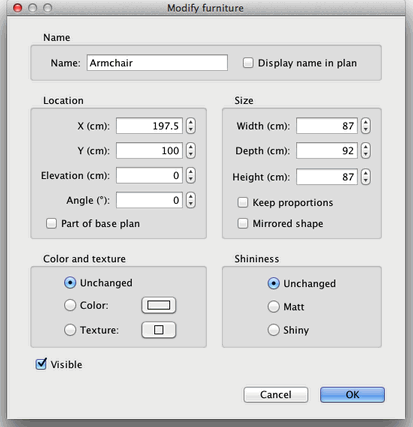
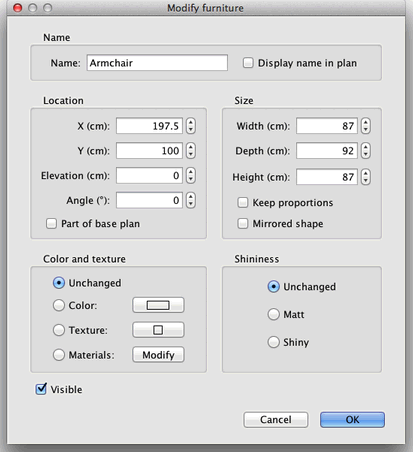
Updated help for version 4.0
git-svn-id: https://svn.code.sf.net/p/sweethome3d/code/trunk@3953 03e323e1-6c6c-46a5-9f71-c4ce5d8c6204

diff --git a/SweetHome3D/src/com/eteks/sweethome3d/viewcontroller/resources/help/fr/editingPreferences.html b/SweetHome3D/src/com/eteks/sweethome3d/viewcontroller/resources/help/fr/editingPreferences.html
@@ -29,18 +29,22 @@
 	<td><p>Pour &eacute;diter les pr&eacute;f&eacute;rences de Sweet Home 3D, choisissez <i>Sweet Home 3D &gt; Pr&eacute;f&eacute;rences...</i> sous
 	    Mac OS X ou <i>Fichier &gt; Pr&eacute;f&eacute;rences...</i> sous les autres syst&egrave;mes d'exploitation.</p>
 	    <p align="center"><img src="images/editingPreferences.png"></p>
-	  <p>Dans le panneau des pr&eacute;f&eacute;rences, vous pouvez choisir la <i>Langue</i> utilis&eacute;e dans l'interface utilisateur
-	    de Sweet Home 3D et l'<i>Unit&eacute;</i> utilis&eacute;e
+	  <p>Dans le panneau des pr&eacute;f&eacute;rences,  la liste d&eacute;roulante <i>Langue</i> vous permet de choisir la langue utilis&eacute;e dans l'interface utilisateur
+	    de Sweet Home 3D et le bouton &agrave; sa droite d'importer des fichiers de langues avec une extensions SH3L.<br>
+	    La liste d&eacute;roulante <i>Unit&eacute;</i> vous permet de choisir l'unit&eacute; utilis&eacute;e
 	    pour dessiner les r&egrave;gles et la grille du plan du
-	    logement, et pour afficher les longueurs. <br>
-	    Le bouton &agrave; c&ocirc;t&eacute; de la liste d&eacute;roulante <i>Langue</i> vous permet aussi d'importer des fichiers de langues avec une extensions SH3L. </p>
+	    logement, ainsi que pour afficher les longueurs et les aires.	Pour le syst&egrave;me m&eacute;trique, vous pouvez choisir le <i>Millim&egrave;tre</i>, le <i>Centim&egrave;tre</i> ou le  <i>M&egrave;tre</i>, et le syst&egrave;me imp&eacute;rial propose les deux unit&eacute;s suivantes&nbsp;: l'unit&eacute; <i>Pied/Pouce/Fraction</i> 
+	    qui affiche une longueur en pieds et pouces suivie de la fraction d'un huiti&egrave;me de pouce la plus proche, comme dans 
+	    <b>20'10&#8539;&quot;</b>, et l'unit&eacute; <i>Pouce/D&eacute;cimales</i> qui affiche une longueur seulement en pouces suivie des d&eacute;cimales de pouce, comme dans <b>250.122&quot;</b>. Pour les aires, l'unit&eacute; <i>Pied/Pouce/Fraction</i> affiche toujours la valeur la plus proche en pieds carr&eacute;, tandis que l'unit&eacute; <i>Pouce/D&eacute;cimales</i> affiche des d&eacute;cimales 
+	    si besoin.</p>
 	    <p> Les boutons radio <i>Dossiers de cat&eacute;gorie </i>et <i>Liste 
           avec recherche </i>permettent de choisir le mode d'affichage du catalogue 
-          de meubles dans chaque <a href="ui.html">fen&ecirc;tre Sweet Home 3D</a>.<br>
-          La bo&icirc;te &agrave; cocher <i>Fl&egrave;ches de navigation 3D</i> 
-          permet d'afficher ou non les boutons en forme de fl&egrave;ches d'aide 
-          &agrave; la <a href="editing3DView.html">navigation dans la vue 3D</a>.</p>
-        <p> La bo&icirc;te &agrave; cocher <i>Magn&eacute;tisme</i> active ou 
+          de meubles dans chaque <a href="ui.html">fen&ecirc;tre Sweet Home 3D</a>.        </p>
+	    <p>	      La bo&icirc;te &agrave; cocher <i>Fl&egrave;ches de navigation 3D</i> permet d'afficher ou non les boutons en forme de fl&egrave;ches d'aide 
+          &agrave; la <a href="editing3DView.html">navigation dans la vue 3D</a>.<br>
+          Quand elle est activ&eacute;e, l'option <i>Vue a&eacute;rienne centr&eacute;e sur la s&eacute;lection</i> centrera la vue a&eacute;rienne 3D sur les &eacute;l&eacute;ments s&eacute;lectionn&eacute;s dans le plan 2D. Si aucun &eacute;l&eacute;ment n'est s&eacute;lectionn&eacute; ou si cette option est d&eacute;sactiv&eacute;e, 
+          la vue a&eacute;rienne sera centr&eacute;e sur le mileu du logement, qui peut changer en fonction de son contenu.</p>
+	    <p>La bo&icirc;te &agrave; cocher <i>Magn&eacute;tisme</i> active ou 
           d&eacute;sactive le magn&eacute;tisme utilis&eacute; dans le plan du 
           logement au cours du positionnement des meubles, et du dessin des murs, des pi&egrave;ces et des cotes.<br>
           La bo&icirc;te &agrave; cocher <i>R&egrave;gles</i> permet de rendre 
@@ -56,11 +60,14 @@
           remplies dans le plan avec la couleur ou de la texture que vous avez 
           choisies pour leur plancher, ou en gris (en blanc &agrave; l'impression).<br>
           La liste d&eacute;roulante <i>Motif des murs dans le plan</i> permet 
-          de choisir le motif de remplissage des murs dans le plan.</p>
-	  <p>La valeur de l'<i>Epaisseur des nouveaux murs</i> d&eacute;termine l'&eacute;paisseur des murs qui seront cr&eacute;&eacute;s
+          de choisir le motif de remplissage des murs dans le plan.<br>
+          La valeur de l'<i>Epaisseur des nouveaux murs</i> d&eacute;termine l'&eacute;paisseur des murs qui seront cr&eacute;&eacute;s
 	        une fois que le panneau des pr&eacute;f&eacute;rences sera ferm&eacute;.<br>
           La valeur de la <i>Hauteur des nouveaux murs</i> d&eacute;termine la hauteur des futurs murs.<br>
-	        La valeur de l'<i>Epaisseur des nouveaux planchers</i> d&eacute;termine l'&eacute;paisseur des planchers des futurs niveaux.	  </p>
+          La valeur de l'<i>Epaisseur des nouveaux planchers</i> d&eacute;termine l'&eacute;paisseur des planchers des futurs niveaux.</p>
+<p>Si elle est s&eacute;lectionn&eacute;e, l'option <i>V&eacute;rifier les mises &agrave; jour au lancement du programme</i> v&eacute;rifiera si des mises &agrave; jours de Sweet Home 3D sont disponibles ou non &agrave; chaque fois que le programme est  lanc&eacute;, 
+  et affichera des informations sur celles-ci dans une bo&icirc;te de dialogue. Cette option v&eacute;rifie aussi la disponibilit&eacute; de mises &agrave; jours pour les biblioth&egrave;ques de meubles (fichiers SH3F), les biblioth&egrave;ques de textures (fichiers SH3T), les fichiers de langues (fichiers SH3L) et les plug-ins 
+  (fichiers SH3P) que vous avez install&eacute;s, en fonction de leur configuration. </p>	  
 	  <p>La valeur du champ associ&eacute; &agrave; la bo&icirc;te &agrave; 
           cocher <i>Enregistrer les donn&eacute;es de r&eacute;cup&eacute;ration</i> 
           d&eacute;termine le d&eacute;lai en minutes qui s'&eacute;coule entre 
@@ -82,7 +89,7 @@
           <td><img src="../images/coloredRendering.png" width="332" height="296"></td>
         </tr>
         <tr>
-          <td align="center" valign="top">Rendu du plan par d&eacute;faut avec les ic&ocirc;nes du catalogue,<br>
+          <td align="center" valign="top">Rendu du plan avec les ic&ocirc;nes du catalogue,<br>
       les planchers monochromes et les murs hachur&eacute;s</td>
           <td align="center" valign="top">Rendu du plan avec les meubles vus de dessus,<br>
       les planchers color&eacute;s, et les murs en noir</td>
@@ -140,6 +147,12 @@
               <td><p>Une fois qu'un mur est cr&eacute;&eacute;, vous pouvez <a href="editingWalls.html">changer</a> 
                   son &eacute;paisseur et sa hauteur, quelque soit les valeurs 
                   choisies dans le panneau des pr&eacute;f&eacute;rences.</p></td>
+            </tr>
+            <tr valign="top"> 
+              <td width="16"><p>&#149;</p></td>
+              <td><p>Les  informations sur les mises &agrave; jour ne peuvent &ecirc;tre obtenues que si votre ordinateur a acc&egrave;s &agrave; Internet. 
+              En cas de doute, cliquez sur le bouton <i>V&eacute;rifier maintenant</i> pour afficher les mises &agrave; jour disponibles, 
+              ou un message sp&eacute;cifiant qu'aucune mise &agrave; jour n'est disponible, ou un message d'erreur stipulant que les mises &agrave; jour n'ont pu &ecirc;tre lues.</p></td>
             </tr>
           </table></td>
 	</tr>

diff --git a/SweetHome3D/src/com/eteks/sweethome3d/viewcontroller/resources/help/en/editingPreferences.html b/SweetHome3D/src/com/eteks/sweethome3d/viewcontroller/resources/help/en/editingPreferences.html
@@ -29,15 +29,25 @@
 	<td><p>To edit Sweet Home 3D preferences, choose <i>Sweet Home 3D &gt; Preferences...</i> under Mac OS X or <i>File &gt; Preferences...</i> under
 	    other systems.</p>
 	    <p align="center"><img src="images/editingPreferences.png"></p>
-	  <p>In the preferences pane, you can choose the <i>Language</i> used in Sweet Home 3D user interface and the <i>Unit</i> used
-	    to draw  the rulers and grid of the home plan, and to display lengths and areas.<br>
-	    The button beside the <i>Language</i> drop down list lets you also import some additional languages library files with a SH3L extension. </p>
-	    <p> The <i>Category folders</i> and the <i>Searchable list</i> radio buttons 
+	  <p>In the preferences pane, the <i>Language</i> drop down list lets you choose the language used in the user interface of Sweet Home 3D,  
+	  	and the button at its right lets you import some additional languages library files with a SH3L extension. <br>
+	    The <i>Unit</i> drop down list lets you choose the unit used to draw  the rulers and grid of the home plan, 
+	    and to display lengths and areas. <i>Millimeter</i>, <i>Centimeter</i> and <i>Meter</i> units are available 
+	    for the metric system, and two units are proposed for  the imperial system&nbsp;: the <i>Foot/Inch/Fraction</i> 
+	    unit which displays a length in feet and inches followed by the closest eighth inch fraction, like in 
+	    <b>20'10&#8539;&quot;</b>, and the <i>Inch/Decimals</i> unit  which displays lengths only in inches followed 
+	    by decimals of an inch, like in <b>250.122&quot;</b>. For areas, the <i>Foot/Inch/Fraction</i>  always 
+	    displays the closest value in square feet, whereas the <i>Inch/Decimals</i> unit displays some decimals 
+	    when necessary.</p>
+	  <p> The <i>Category folders</i> and the <i>Searchable list</i> radio buttons 
           let you choose how the furniture catalog should be displayed in each 
-          <a href="ui.html">Sweet Home 3D window</a>.<br>
-          The <i>3D navigation arrows</i> check box allows to display arrow buttons 
+        <a href="ui.html">Sweet Home 3D window</a>.</p>
+	  <p>The <i>3D navigation arrows</i> check box allows to display arrow buttons 
           that will help you to <a href="editing3DView.html">navigate in the 3D 
-        view</a>.</p>
+        view</a>.<br>
+        When enabled, the  <i>Aerial view centered on selection</i> option will center the 3D aerial view 
+        on the selected items in the 2D plan. If no item is selected or if this option is disabled, 
+        the aerial view will be centered on the center of the home, that may vary according to the items it contains. </p>
         <p> The <i>Magnetism</i> check box enables or disables the magnetism used 
           in the home plan during <a href="drawingWalls.html">walls drawing</a> 
           and <a href="editingFurniture.html">furniture placing</a>.<br>
@@ -51,13 +61,18 @@
           let you choose whether rooms should be drawn in plan filled with the 
           color or texture you chose for their floor, or with a grey color (printed 
           as white).<br>
-          The <i>Wall pattern in plan</i> combo box lets you choose the pattern 
-          used to fill walls in plan.</p>
-        <p>	      The <i>New walls thickness</i> value sets the thickness of all the walls that will be created once the preferences
+          The <i>New walls pattern in plan</i> drop down list lets you choose the pattern 
+        in the plan used to fill the walls  that will be created once the preferences
 	        pane will be closed.<br>
+          The <i>New walls thickness</i> value sets the thickness of the new walls.<br>
           The <i>New  walls height</i> value 
 	        sets the height of the new walls and of the new levels. <br>
-        The <i>New floors thickness</i> sets the thickness of the floors of new levels. </p>	  
+        The <i>New levels floor thickness</i> sets the thickness of the floors of new levels. </p>
+        <p>When selected, the  <i>Check updates at program launch</i> option will check whether 
+        some updates of Sweet Home 3D are available or not each time the program is launched, 
+        and will display them in a dialog box. This option checks also the availability of some updates for the furniture libraries 
+        (SH3F files),  textures libraries (SH3T files),  language libraries (SH3L files) and plug-ins 
+        (SH3P files) that you installed, depending on how they are configured. </p>	  
         <p>The value of the field associated to the <i>Save home data for recovery</i> 
           check box sets the delay in minutes between two save operations of the 
           opened homes. These homes are automatically saved in private files, 
@@ -75,7 +90,7 @@
           <td><img src="../images/coloredRendering.png" width="332" height="296"></td>
         </tr>
         <tr>
-          <td align="center" valign="top">Default plan rendering with catalog icons,<br>
+          <td align="center" valign="top">Plan rendering with catalog icons,<br>
             monochrome floors and walls filled with a hatch pattern</td>
           <td align="center" valign="top">Plan rendering with top view furniture icons,<br>
             floor colors, and walls filled with black color</td>
@@ -121,11 +136,17 @@
               <td><p>Magnetism set in preferences pane can be temporarily toggled 
               in the home plan, by pressing the <i>Alt</i> key under Windows, the <i>cmd</i> key under Mac OS X or the <i>Shift</i> +<i> Alt</i> keys under Linux.</p></td>
             </tr>
-            <tr valign="top"> 
+            <tr valign="top">
               <td width="16"><p>&#149;</p></td>
               <td><p>Once a wall is created, you may <a href="editingWalls.html">change</a> 
                   its thickness and its height whatever the values you set in 
                   preferences pane.</p></td>
+            </tr>
+            <tr valign="top"> 
+              <td width="16"><p>&#149;</p></td>
+              <td><p>Updates information can be retrieved only if your computer has access to the Internet. 
+              In case of doubts, click on the <i>Check now</i> button to display available updates, 
+              or a message stating that no update is available, or an error message stating udaptes couldn't be read.</p></td>
             </tr>
           </table>
 	</td>

diff --git a/SweetHome3D/src/com/eteks/sweethome3d/viewcontroller/resources/help/fr/creatingPhotos.html b/SweetHome3D/src/com/eteks/sweethome3d/viewcontroller/resources/help/fr/creatingPhotos.html
@@ -110,8 +110,8 @@
           par le panneau de la <a href="editingCompass.html">boussole</a>. La 
           luminosit&eacute; globale de l'image d&eacute;pend aussi du niveau de 
           l'intensit&eacute; lumineuse choisie dans le panneau de <a href="editing3DView.html">modification 
-          de la vue 3D</a>.</p>
-        <p>Pour terminer, le panneau <i>Cr&eacute;er une photo</i> vous permet 
+          de la vue 3D</a>.<br>
+          Pour terminer, le panneau <i>Cr&eacute;er une photo</i> vous permet 
           de s&eacute;lectionner l'objectif &agrave; utiliser parmi les 4 suivants.</p>
         <table border="0" align="center" cellpadding="0" cellspacing="5">
           <tr align="center"> 
@@ -134,7 +134,8 @@
             <td align="center" valign="top">Objectif <i>Sph&eacute;rique</i></td>
           </tr>
         </table>
-       
+       	<p>Si vous voulez calculer un ensemble de photos en une seule t&acirc;che, enregistrez les points de vue auxquels vous vous int&eacute;ressez avec le menu <i>Vue 3D view &gt; Enregistrer le point de vue...</i> puis choisissez le menu <i>Vue 3D &gt; Cr&eacute;er des photos aux points de vue...</i>. Ce menu affichera une bo&icirc;te de dialogue vous permettant de choisir la taille, la qualit&eacute; et le fomat de fichier des photos, avant de les calculer et les enregistrer dans le dossier de votre choix.  Aux deux meilleurs niveaux de qualit&eacute;, la date/heure et l'objectif utilis&eacute;s &agrave; un point de vue donn&eacute; seront les valeurs que vous avez saisies pr&eacute;c&eacute;demment dans le panneau de cr&eacute;ation de photo, au moment de l'enregistrement de ce point de vue.</p>
+        <p align="center"><img src="images/creatingPhotosAtPointsOfView.png" alt="Create photos at points of view"></p>
         </td>
 	</tr>
 </table>
@@ -209,11 +210,11 @@
             </tr>
             <tr valign="top"> 
               <td><p>&#149;</p></td>
-              <td> <p>La bo&icirc;te de dialogue <i>Cr&eacute;er une photo</i> 
-                  n'est pas modale. Ceci implique qu'elle ne bloque pas les saisies 
+              <td> <p>Les bo&icirc;tes de dialogue <i>Cr&eacute;er une photo</i> 
+                  et <i>Cr&eacute;er des photos aux points de vue</i> ne sont pas modales. Ceci implique qu'ellent ne bloquent pas les saisies 
                   dans d'autres fen&ecirc;tres, ce qui vous permet de modifier 
                   votre logement ou votre point de vue dans la fen&ecirc;tre principale, 
-                  quand cette bo&icirc;te de dialogue est ouverte. </p></td>
+                  quand l'une de ces bo&icirc;tes de dialogue est ouverte. </p></td>
             </tr>
             <tr valign="top"> 
               <td width="16"><p>&#149;</p></td>

diff --git a/SweetHome3D/src/com/eteks/sweethome3d/viewcontroller/resources/help/en/creatingPhotos.html b/SweetHome3D/src/com/eteks/sweethome3d/viewcontroller/resources/help/en/creatingPhotos.html
@@ -97,8 +97,8 @@
           the latter parameters being managed by the <a href="editingCompass.html">compass</a> 
           pane. The global brightness of the image depends also on the level of 
           the light brightness set in the <a href="editing3DView.html">3D view 
-          modification</a> pane.</p>
-        <p>Finally, the <i>Create photo</i> pane lets you choose also among the 
+          modification</a> pane.<br>
+          Finally, the <i>Create photo</i> pane lets you choose also among the 
           4 different following types of lens.</p>
         <table border="0" align="center" cellpadding="0" cellspacing="5">
           <tr align="center"> 
@@ -121,8 +121,9 @@
             <td align="center" valign="top"><i>Spherical</i> lens</td>
           </tr>
         </table>
-       
-        </td>
+        <p>If you want to  compute a group of photos in the same batch, store the points of view you're interested in with the  <i>3D view &gt; Store point 
+        of view...</i> menu item then select the <i>3D view &gt; Create photos at point of view...</i> menu item. It will display a dialog box that will let you choose the size, the image quality and the file format of the computed images, before computing and saving them in the folder of your choice.  At the two best quality levels, the date/time and lens used for a given rendered point of view will be the values you previously entered in the <i>Create photo</i> pane, at the moment you stored that point of view.</p>
+        <p align="center"><img src="images/creatingPhotosAtPointsOfView.png" alt="Create photos at points of view"></p></td>
 	</tr>
 </table>
 <div id="taskbox">
@@ -187,10 +188,10 @@
             </tr>
             <tr valign="top"> 
               <td><p>&#149;</p></td>
-              <td> <p>The <i>Create photo</i> dialog box isn't modal. This means 
+              <td> <p>The <i>Create photo</i> and <i>Create photos at point of view</i> dialog boxes aren't modal. This means 
                   that it doesn't block the input in other windows and lets you 
-                  modify your home or your point of view in the main window, while 
-                  this dialog box is opened. </p></td>
+                  modify your home or your point of view in the main window, while one of 
+                  these dialog boxes is opened. </p></td>
             </tr>
             <tr valign="top"> 
               <td width="16"><p>&#149;</p></td>

diff --git a/SweetHome3D/src/com/eteks/sweethome3d/viewcontroller/resources/help/en/editingWalls.html b/SweetHome3D/src/com/eteks/sweethome3d/viewcontroller/resources/help/en/editingWalls.html
@@ -86,7 +86,7 @@
         <p align="center"><img src="images/editingWalls.png"></p>
         <p>In the wall pane, you may change&nbsp;the coordinates of its start 
           and end points, the colors, the textures and the shininess of its left 
-          and right sides, its thickness, its height and its arc extent if it's 
+          and right sides, the pattern used to fill it in the plan, the color used to paint its top in the 3D view, its thickness, its height and its arc extent if it's 
           a round wall.<br>
           If it's a sloping wall of a garret, choose different heights at its start and  end points, and ensure
           yourself that the <i>Sloping wall</i> radio button is selected.<br>
@@ -105,7 +105,7 @@
               <p>&#149;</p>
             </td>
             <td>
-              <p>If you want to modify the colors, the texture, the thickness or the height of a set of walls, select these
+              <p>If you want to modify the colors, the textures, the thickness or the height of a set of walls, select these
                 walls and choose <i>Plan &gt; Modify walls...</i>.
                 The values of the attributes that are different from one wall to another in the selected walls set,
                 will appear  blank  in the walls pane. If   among these walls, a wall isn't correctly oriented, select
@@ -116,9 +116,12 @@
               <p>&#149;</p>
             </td>
             <td>
-              <p>If you want to set different colors on the side of a wall shared by adjacent rooms,   divide
+              <p>If you want to set different colors or textures on the side of a wall shared by adjacent rooms, divide
               it in multiple segments at its <a href="drawingWalls.html">creation</a>. Afterwards, you may also divide a
-              wall in two walls by choosing <i>Plan &gt; Split wall</i>.</td>
+              wall in two walls by choosing <i>Plan &gt; Split wall</i>. If you want to change the color of all the wall 
+              sides around a room, <a href="drawingRooms.html">draw that room</a> if necessary, and select the color of 
+              your choice in the <i>Wall sides around room</i> section of the <a href="editingRooms.html">modification</a> 
+              pane of that room.</td>
           </tr>
           <tr valign="top">
             <td>

diff --git a/SweetHome3D/src/com/eteks/sweethome3d/viewcontroller/resources/help/fr/editing3DView.html b/SweetHome3D/src/com/eteks/sweethome3d/viewcontroller/resources/help/fr/editing3DView.html
@@ -194,6 +194,12 @@
 	    </tr>
 	  <tr valign="top">
 	    <td><p>&#149;</p></td>
+	    <td><p>Dans le mode <i>Vue a&eacute;rienne</i>, l'observateur tourne autour du centre du logement dans la vue 3D, et ce centre est automatiquement mis	&agrave; jour chaque fois qu'un objet est d&eacute;plac&eacute; ou redimensionn&eacute;. Ce comportement vous assure de toujours voir votre logement enti&egrave;rement sans risque de vous perdre dans la vue 3D. Si vous voulez choisir un point de vue ind&eacute;pendant de ce mode centr&eacute;, vous pouvez activer l'option <i>Vue a&eacute;rienne centr&eacute;e sur la selection</i> dans le panneau des <a href="editingPreferences.html">pr&eacute;f&eacute;rences</a> pour centrer la vue a&eacute;rienne 3D 
+	    	sur les &eacute;l&eacute;ments s&eacute;lectionn&eacute;s dans le plan, ou  utiliser le mode <i>Visiteur virtuel</i> pour choisir n'importe quel point de vue. 
+	    	Si vous voulez voir des pi&egrave;ces cach&eacute;es par des murs, vous pouvez aussi modifier la transparence des murs dans le panneau de modification de la vue 3D.</p></td>
+	    </tr>
+	  <tr valign="top">
+	    <td><p>&#149;</p></td>
 	    <td><p>L'option <i>Ajuster la hauteur des yeux en fonction du niveau s&eacute;lectionn&eacute;</i> est s&eacute;lectionn&eacute;e par d&eacute;faut et disponible aussit&ocirc;t que le logement &eacute;dit&eacute; compte plus d'un <a href="addingLevels.html">niveau</a>. D&eacute;s&eacute;lectionnez-la  si vous pr&eacute;f&eacute;rez conserver la m&ecirc;me &eacute;l&eacute;vation quelque soit le niveau s&eacute;lectionn&eacute; (propablement pour un point de vue ext&eacute;rieur).</p></td>
 	    </tr>
 	  <tr valign="top">

diff --git a/SweetHome3D/src/com/eteks/sweethome3d/viewcontroller/resources/help/en/editingFurniture.html b/SweetHome3D/src/com/eteks/sweethome3d/viewcontroller/resources/help/en/editingFurniture.html
@@ -113,11 +113,20 @@
           the ordinate (Y) of its center, the elevation of its bottom from the 
           floor, its width, its depth, its height, its color or its texture, its 
           shininess, its visibility, its rotation angle, whether its name should 
-          be displayed in plan or not and whether its 3D model shape should be 
+          be displayed in plan or not, and whether its 3D model shape should be 
           mirrored.<br>
 	    If you make a piece invisible, it won't be drawn in the home plan
 	    and the 3D view, but it will
-	    still appear in the furniture list to let you make it visible again later.</p></td>
+	    still appear in the furniture list to let you make it visible again later.<br>
+	    When one piece is edited
+	    (or if the selected pieces are all the same), you may also click on the <i>Modify</i> button 
+	    shown beside <i>Materials</i> option, to  replace each color or texture of the piece by the 
+	    one of your choice. </p>
+	    <p align="center"><img src="images/editingMaterials.png" alt="Modify furniture"></p>
+	    <p>The <i>Furniture materials</i> pane displays the list of materials you can edit, and a 3D preview 
+	    of the color and texture changes you made, because materials may not always have  some clear or translated names 
+	    (like <i>bone2</i> instead of <i>mattress</i> or <i>flyellow</i> instead of <i>frame</i> in the previous figure). 
+      You can also  rotate the object in the 3D preview with the mouse if necessary.</p></td>
 	</tr>
 </table>
 <div id="taskbox">

diff --git a/SweetHome3D/src/com/eteks/sweethome3d/viewcontroller/resources/help/fr/editingFurniture.html b/SweetHome3D/src/com/eteks/sweethome3d/viewcontroller/resources/help/fr/editingFurniture.html
@@ -124,7 +124,13 @@ Les meubles modifi&eacute;s avec la souris sont dessin&eacute;s simultan&eacute;
           ou son miroir. <br>
 	     Si vous rendez un meuble invisible, il ne sera pas dessin&eacute; dans le plan du logement et dans
 	     la vue 3D, mais il continuera d'appara&icirc;tre dans
-	    la liste des meubles pour vous permettre de le rendre &agrave; nouveau visible ult&eacute;rieurement.</p></td>
+	    la liste des meubles pour vous permettre de le rendre &agrave; nouveau visible ult&eacute;rieurement.
+	    <br>
+	    Quand un meuble est &eacute;dit&eacute;
+	    (ou si les meubles s&eacute;lectionn&eacute;s sont tous les m&ecirc;mes), vous pouvez aussi cliquer sur le bouton <i>Modifier</i> en regard de l'option <i>Mat&eacute;riaux</i>, pour remplacer chaque couleur ou chaque texture du meuble par celle de votre choix. </p>
+	    <p align="center"><img src="images/editingMaterials.png" alt="Modify furniture"></p>
+	    <p>Le panneau <i>Mat&eacute;riaux du mobilier</i> affiche la liste des mat&eacute;riaux que vous pouvez modifier, ainsi qu'un aper&ccedil;u 3D des modifications de couleur et de texture en cours, les mat&eacute;riaux n'ayant pas toujours des noms clairs ou en fran&ccedil;ais (comme <i>bone2</i> &agrave; la place de <i>matelas</i> ou <i>flyellow</i>&agrave; la place de <i>cadre de lit </i> dans la figure pr&eacute;c&eacute;dente). 
+      Si besoin, vous pouvez aussi faire tourner l'objet dans l'aper&ccedil;u 3D &agrave; l'aide de  la souris.</p></td>
 	</tr>
 </table>
 <div id="taskbox">

diff --git a/SweetHome3D/src/com/eteks/sweethome3d/viewcontroller/resources/help/en/editing3DView.html b/SweetHome3D/src/com/eteks/sweethome3d/viewcontroller/resources/help/en/editing3DView.html
@@ -178,6 +178,15 @@
 	    </tr>
 	  <tr valign="top">
 	    <td><p>&#149;</p></td>
+	    <td><p>In <i>Aerial view</i> mode, the observer  turns around the center of the home in the 3D view and this center is automatically 
+	    	updated each time the objects are moved or resized. This behavior ensures you always see your home entirely with no way to get 
+	    	lost in the 3D view. If you want to use a point of view that won't depend on this centered mode, you may enable the 
+	    	<i>Aerial view centered on selection</i> option in the <a href="editingPreferences.html">preferences</a> pane to center the 3D 
+	    	aerial view on the selected items in the 2D plan, or  use the <i>Virtual visit</i> mode which lets you choose any point of view. 
+	    	If you want to see some rooms hidden by walls, you may also set the walls transparency in the modification pane of the 3D view.</p></td>
+	    </tr>
+	  <tr valign="top">
+	    <td><p>&#149;</p></td>
 	    <td><p>The  <i>Adjust eyes elevation according to the selected level</i>  option is selected by default and available only if the edited home has more than one <a href="addingLevels.html">level</a>. Unselect it if you want to keep the same elevation whatever level is selected (propably for an exterior point of view).</p></td>
 	    </tr>
 	  <tr valign="top">

diff --git a/SweetHome3D/src/com/eteks/sweethome3d/viewcontroller/resources/help/fr/editingRooms.html b/SweetHome3D/src/com/eteks/sweethome3d/viewcontroller/resources/help/fr/editingRooms.html
@@ -89,7 +89,15 @@
           Vous pouvez aussi choisir si le plancher et le plafond de la pi&egrave;ce 
           s&eacute;lectionn&eacute;e doivent &ecirc;tre affich&eacute;s dans la 
           vue 3D, et si oui, avec quelle couleur, quelle texture et &agrave; quelle 
-        brillance.</p>
+        brillance.<br>
+        Quand la pi&egrave;ce s&eacute;lectionn&eacute;e touche ou est tr&egrave;s proche d'un ou plusieurs murs, le panneau de la pi&egrave;ce affiche aussi une section <i>Murs autour de la pi&egrave;ce </i>qui vous permet de choisir la couleur ou la texture du c&ocirc;t&eacute; des murs qui se situent le long de la pi&egrave;ce ou sont dans la pi&egrave;ce. Si besoin, cette section propose une option <i>Recalculer les murs</i> qui si elle est s&eacute;lectionn&eacute;e, divisera automatiquement les murs qui s'&eacute;tendent le long des autres pi&egrave;ces environnantes.</p>
+        <table align="center"><tr>
+          <td><img src="../images/notRecomputedWallsAroundRoom.png" border="1" ></td>
+		  <td>&nbsp;</td>
+		  <td><img src="../images/recomputedWallsAroundRoom.png" border="1"></td></tr>
+	      <tr><td align="center"><i>Not recomputed walls</i></td>
+	      <td></td>
+	      <td align="center"><i>Recomputed walls</i></td></tr></table></td>
       </td>
   </tr>
 </table>

diff --git a/SweetHome3D/src/com/eteks/sweethome3d/viewcontroller/resources/help/fr/editingWalls.html b/SweetHome3D/src/com/eteks/sweethome3d/viewcontroller/resources/help/fr/editingWalls.html
@@ -121,11 +121,12 @@
               <p>&#149;</p>
             </td>
             <td>
-              <p>Si vous voulez positionner des couleurs diff&eacute;rentes sur le c&ocirc;t&eacute; d'un mur partag&eacute; par
+              <p>Si vous voulez choisir des couleurs ou des textures diff&eacute;rentes sur le c&ocirc;t&eacute; d'un mur partag&eacute; par
                 des pi&egrave;ces adjacentes,
                 divisez le en plusieurs segments
                 &agrave; sa <a href="drawingWalls.html">cr&eacute;ation</a>. Apr&egrave;s sa cr&eacute;ation, vous pouvez aussi le diviser
-                en deux murs en choisissant l'&eacute;l&eacute;ment de menu <i>Plan &gt; Diviser le mur</i>.</td>
+                en deux murs en choisissant l'&eacute;l&eacute;ment de menu <i>Plan &gt; Diviser le mur</i>. Si vous voulez modifier la couleur de tous les c&ocirc;t&eacute;s des murs situ&eacute;s autour d'une pi&egrave;ce, <a href="drawingRooms.html">dessinez cette pi&egrave;ce</a> si besoin, et s&eacute;lectionnez la couleur de votre choix dans la section <i>Murs autour de la pi&egrave;ce </i>du panneau de <a href="editingRooms.html">modification</a> 
+              de cette pi&egrave;ce.</p></td>
           </tr>
           <tr valign="top">
             <td>

diff --git a/SweetHome3D/src/com/eteks/sweethome3d/viewcontroller/resources/help/en/editingRooms.html b/SweetHome3D/src/com/eteks/sweethome3d/viewcontroller/resources/help/en/editingRooms.html
@@ -84,8 +84,18 @@
           plan or not.<br>
           You may also choose whether the floor and the ceiling of the selected 
           room should be displayed in the 3D view, and set their color, their 
-          texture and their shininess.</p>
-      </td>
+          texture and their shininess.<br>
+          When  the selected room touches or is very close to one or more walls, the room pane displays 
+          also a <i>Wall sides around room</i> section that will let you choose the color or the texture 
+          of the side of the walls lying along the room or in the room. If necessary, this section provides a 
+          <i>Recompute walls</i> option that if selected, will automatically split the walls spreading along the other nearby rooms.</p>
+        <table align="center"><tr>
+          <td><img src="../images/notRecomputedWallsAroundRoom.png" border="1" ></td>
+		  <td>&nbsp;</td>
+		  <td><img src="../images/recomputedWallsAroundRoom.png" border="1"></td></tr>
+	      <tr><td align="center"><i>Not recomputed walls</i></td>
+	      <td></td>
+	      <td align="center"><i>Recomputed walls</i></td></tr></table></td>
   </tr>
 </table>
 <div id="taskbox">
